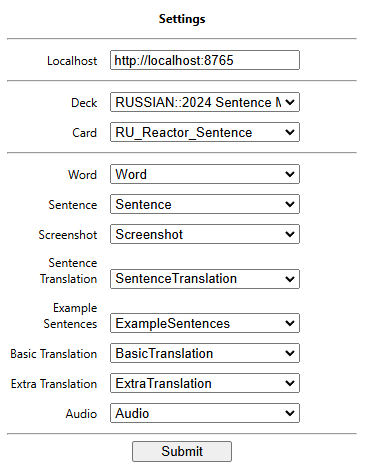
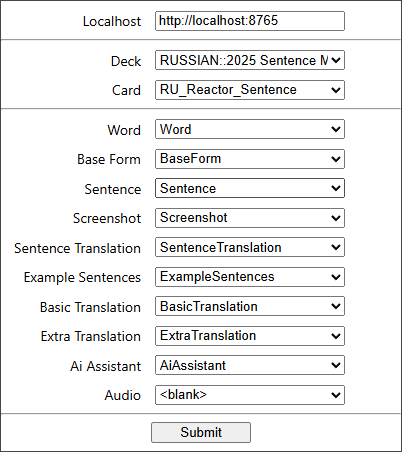
updated settings page

diff --git a/src/popup/style.css b/src/popup/style.css
@@ -1,41 +1,44 @@
-p {
-  text-align: center;
-}
-
+html,
 body {
-  width: 350px;
-}
-
-form {
-  margin: 10px 0;
-  text-align: left;
+    width: 400px;
+    height: 450px;
+    margin: 0;
+    padding: 0;
+    overflow: hidden;
+    font-size: 14px;
 }
 
 label {
-  display: block;
-  margin: 10px 0;
+    display: block;
+    margin: 8px 0;
 }
 
 label span {
-  display: inline-block;
-  text-align: right;
-  width: 90px;
+    display: inline-block;
+    vertical-align: middle;
+    text-align: right;
+    width: 140px;
 }
 
-select {
-  width: 190px;
-  margin-left: 10px;
-  height: 20px;
+label select {
+    width: 190px;
+    vertical-align: middle;
+    margin-left: 10px;
+    height: 20px;
+}
+
+label input {
+    vertical-align: middle;
 }
 
 #ankiConnectUrl {
-  width: 190px;
-  height: 20px;
-  margin-left: 10px;
+    width: 190px;
+    height: 20px;
+    margin-left: 10px;
 }
 
 #saveAnkiBtn {
-  display: block;
-  width: 100px;
-  margin: 0 auto;
+    display: block;
+    width: 100px;
+    margin: 0 auto;
 }

diff --git a/src/popup/popup.html b/src/popup/popup.html
@@ -7,10 +7,6 @@
 
 <body>
     <form>
-        <p>
-            <b>Settings</b>
-        </p>
-        <hr>
         <label>
             <span>Localhost</span>
             <input type="text" id="ankiConnectUrl" value="http://localhost:8765">
@@ -28,6 +24,10 @@
         <label>
             <span>Word</span>
             <select id="ankiFieldWord"></select>
+        </label>
+        <label>
+            <span>Base Form</span>
+            <select id="ankiBaseFormSelected"></select>
         </label>
         <label>
             <span>Sentence</span>
@@ -52,6 +52,10 @@
         <label>
             <span>Extra Translation</span>
             <select id="ankiExtraTranslation"></select>
+        </label>
+        <label>
+            <span>Ai Assistant</span>
+            <select id="ankiAiAssistantSelected"></select>
         </label>
         <label>
             <span>Audio</span>

diff --git a/src/popup/popup.js b/src/popup/popup.js
@@ -18,12 +18,14 @@ const anki_element_names_array = [
 
     // Fields bellow
     "ankiFieldWord",
+    "ankiBaseFormSelected",
     "ankiSentence",
     "ankiScreenshot",
     "ankiSentenceTranslation",
     "ankiExampleSentence",
     "ankiBasicTranslation",
     "ankiExtraTranslation",
+    "ankiAiAssistantSelected",
     "ankiAudio",
 ];
 
@@ -149,9 +151,10 @@ function Add_Options_To_Field_Dropdown(element_id, data, saved_value)
     }
 
     const blank = document.createElement("option");
-    blank.value = blank.text = "";
+    blank.value = "";
+    blank.text = "<blank>";
     dropdown.add(blank);
-
+    
     dropdown.value = saved_value;
 }
 
